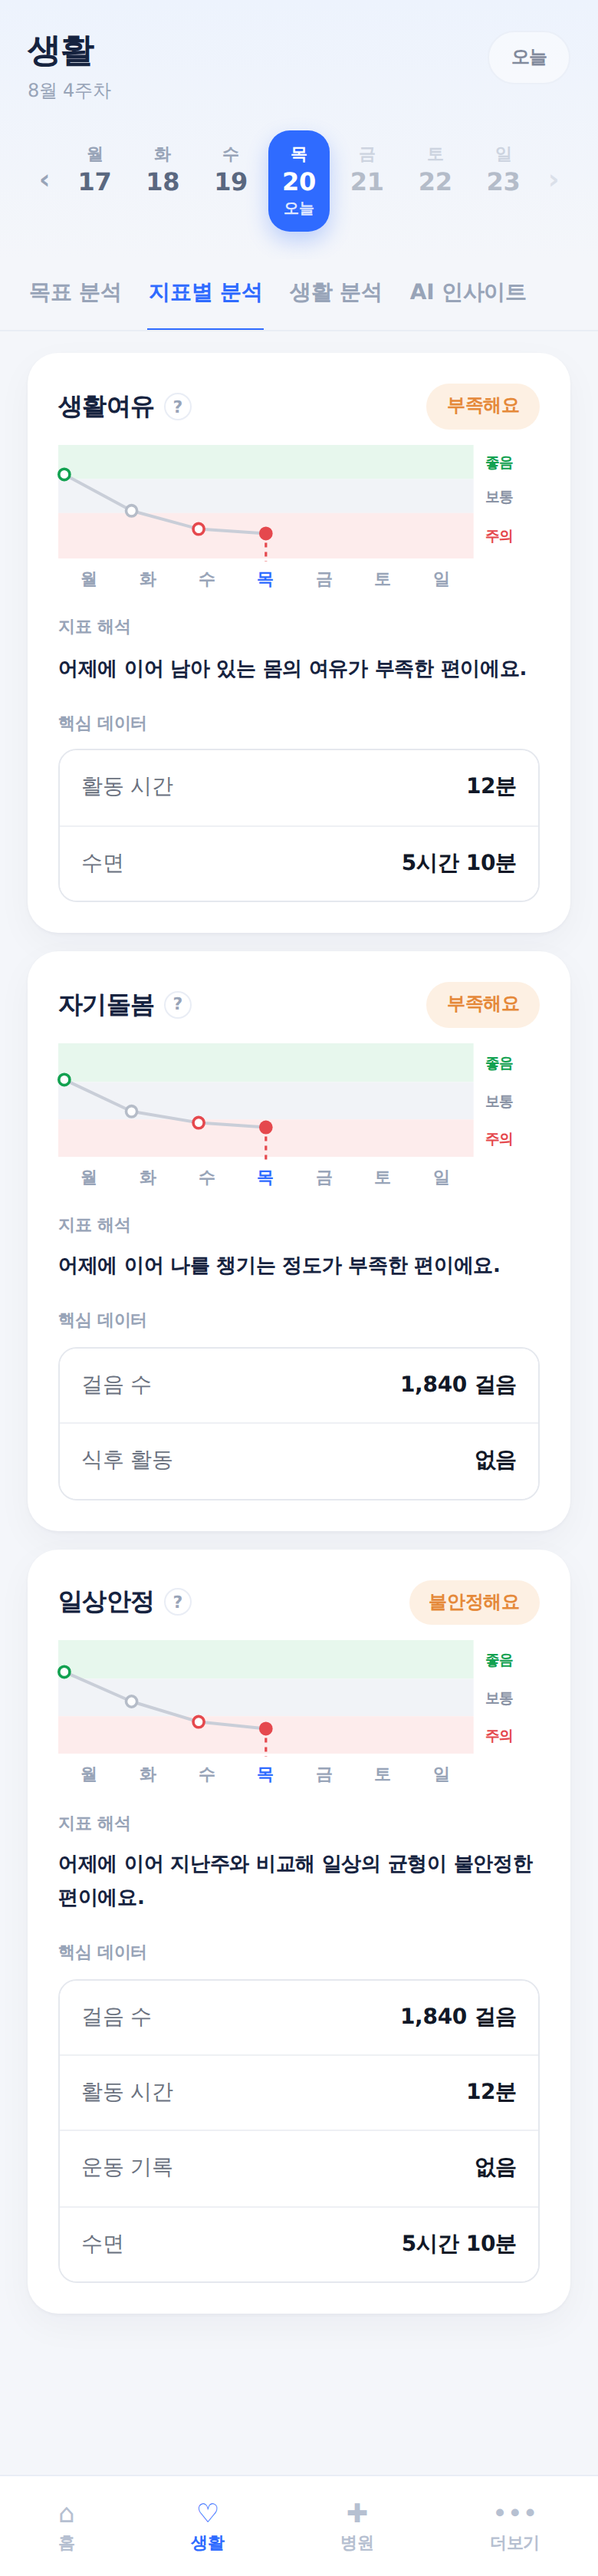
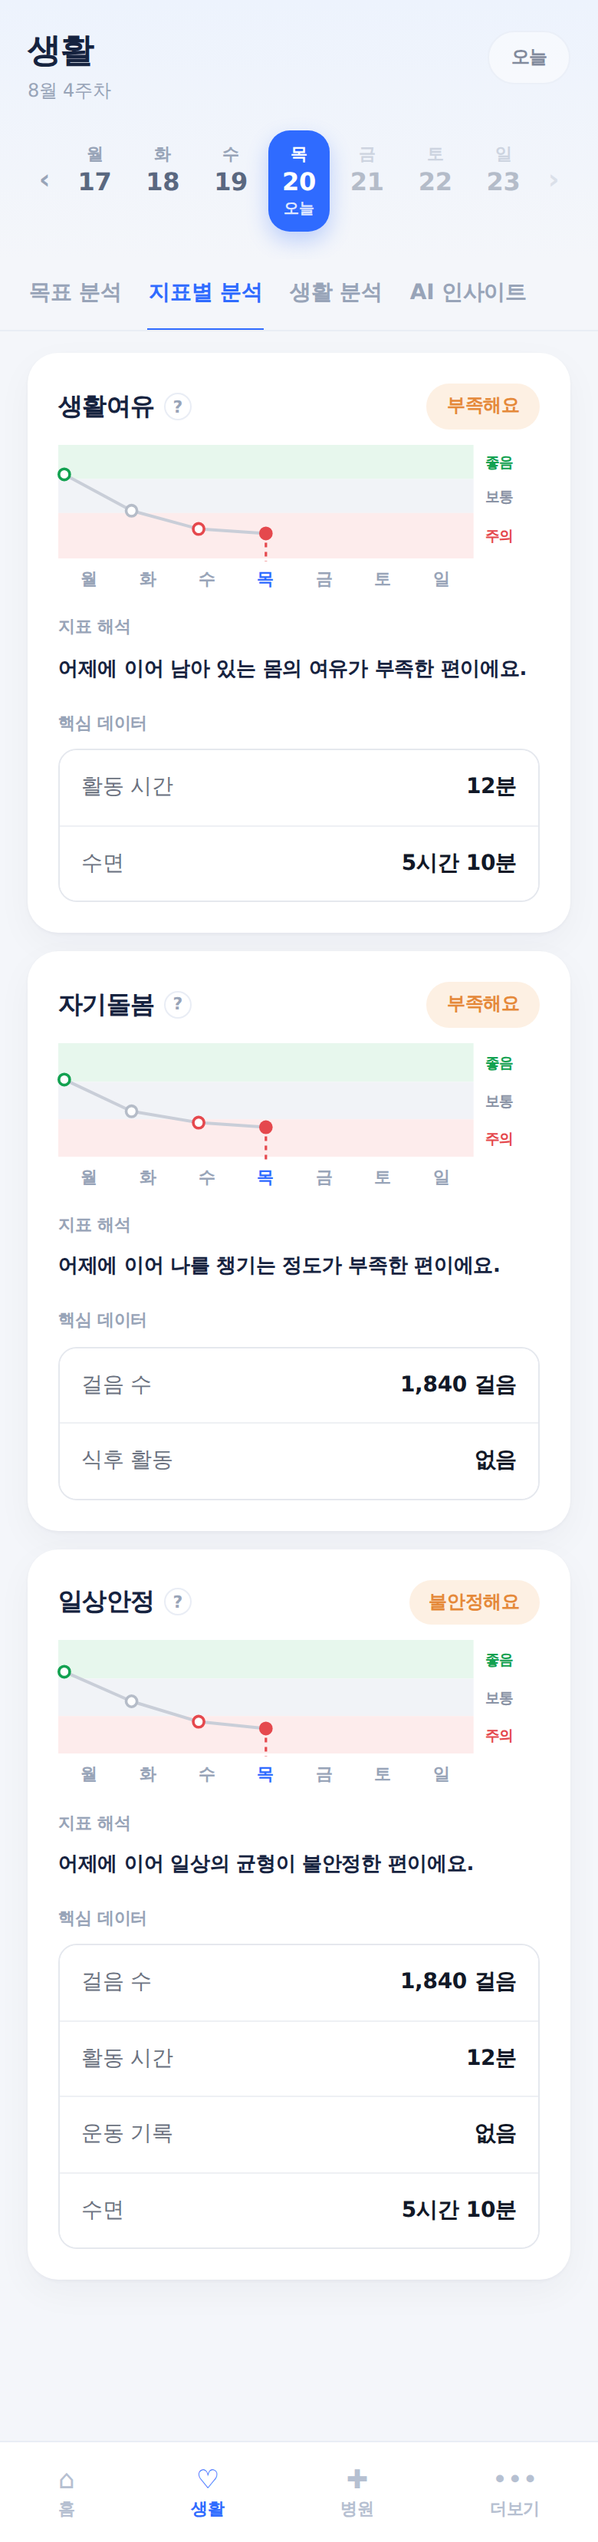
일상안정 상태 문구에서 '지난주와 비교해' 제거, 행동 완료 이유 문구 구분

diff --git a/wip-metric-rules.html b/wip-metric-rules.html
@@ -85,7 +85,7 @@ ul.rules.no li::before{content:'✕';color:var(--low)}
     <tr><th>지표</th><th class="good">좋음</th><th class="mid">보통</th><th class="low">주의</th></tr>
     <tr><td class="k">생활여유</td><td>남아 있는 몸의 여유가 충분한 편이에요</td><td>남아 있는 몸의 여유가 보통이에요</td><td>남아 있는 몸의 여유가 부족한 편이에요</td></tr>
     <tr><td class="k">자기돌봄</td><td>나를 챙기는 정도가 좋은 편이에요</td><td>나를 챙기는 정도가 보통이에요</td><td>나를 챙기는 정도가 부족한 편이에요</td></tr>
-    <tr><td class="k">일상안정</td><td>지난주와 비교해 일상의 균형이 안정적인 편이에요</td><td>지난주와 비교해 일상의 균형이 보통이에요</td><td>지난주와 비교해 일상의 균형이 불안정한 편이에요</td></tr>
+    <tr><td class="k">일상안정</td><td>일상의 균형이 안정적인 편이에요</td><td>일상의 균형이 보통이에요</td><td>일상의 균형이 불안정한 편이에요</td></tr>
   </table>
 </section>
 
@@ -109,7 +109,7 @@ ul.rules.no li::before{content:'✕';color:var(--low)}
     <tr><td class="k">활동 부담</td><td>생활여유</td><td>—</td><td>활동이 많아 부담이 커지면서</td><td>—</td></tr>
     <tr><td class="k">걸음 수</td><td>자기돌봄 · 일상안정</td><td>걸음 수가 늘어나면서</td><td>걸음 수가 줄어들면서</td><td>걸음 수가 적은 날이 이어지면서</td></tr>
     <tr><td class="k">식후 활동</td><td>자기돌봄</td><td>식후 활동이 이어지면서</td><td>식후 활동이 줄어들면서</td><td>식후 활동이 적은 날이 이어지면서</td></tr>
-    <tr><td class="k">행동 완료</td><td>일상안정</td><td>식후 활동을 챙긴 날이 늘면서</td><td>식후 활동을 챙긴 날이 줄면서</td><td>식후 활동을 놓친 날이 이어지면서</td></tr>
+    <tr><td class="k">행동 완료 (7일 식후 활동 완료율)</td><td>일상안정</td><td>이번 주 식후 활동을 챙긴 날이 늘면서</td><td>이번 주 식후 활동을 챙긴 날이 줄면서</td><td>식후 활동을 놓친 날이 이어지면서</td></tr>
     <tr><td class="k">걸음 발생일</td><td>일상안정</td><td>움직인 날이 늘면서</td><td>움직이지 않은 날이 생기면서</td><td>움직이지 않은 날이 이어지면서</td></tr>
     <tr><td class="k">수면 규칙성</td><td>일상안정</td><td>잠드는 시간이 일정해지면서</td><td>잠드는 시간이 불규칙해지면서</td><td>잠드는 시간이 불규칙한 날이 이어지면서</td></tr>
     <tr><td class="k">운동 시간</td><td>일상안정</td><td>운동 시간이 늘어나면서</td><td>운동 시간이 줄어들면서</td><td>운동 공백이 이어지면서</td></tr>
@@ -184,7 +184,7 @@ ul.rules.no li::before{content:'✕';color:var(--low)}
     <div><h4>일상안정</h4>
       <p><span class="tag t-up">올라감</span>걸음 수가 늘어나면서 일상의 균형이 나아졌어요.</p>
             <p><span class="tag t-down">내려감</span>걸음 수가 줄어들면서 일상의 균형이 흐트러졌어요.</p>
-      <p><span class="tag t-same">같음</span>어제에 이어 지난주와 비교해 일상의 균형이 보통이에요.</p>
+      <p><span class="tag t-same">같음</span>어제에 이어 일상의 균형이 보통이에요.</p>
     </div>
   </div>
 </section>
@@ -194,11 +194,11 @@ ul.rules.no li::before{content:'✕';color:var(--low)}
   <h3>① 회복 중인 주 · 데이터</h3>
   <table><tr><th>요일</th><th>수면</th><th>활동 시간</th><th>활동 분산</th><th>걸음 수</th><th>식후 활동</th><th>취침 시각</th></tr><tr><td class="k">월</td><td>6시간 50분</td><td>30분</td><td>4칸 · 40%</td><td>6,900</td><td>걷기 1회</td><td>23:40</td></tr><tr><td class="k">화</td><td>5시간 40분</td><td>18분</td><td>2칸 · 70%</td><td>4,100</td><td>걷기 1회</td><td>00:50</td></tr><tr><td class="k">수</td><td>6시간 30분</td><td>34분</td><td>5칸 · 30%</td><td>7,800</td><td>조깅 1회</td><td>23:20</td></tr><tr><td class="k">목</td><td>7시간 23분</td><td>42분</td><td>6칸 · 25%</td><td>7,340</td><td>걷기 1회</td><td>23:10</td></tr></table>
   <h3>① 회복 중인 주 · 지표 해석</h3>
-  <table><tr><th>요일</th><th>생활여유</th><th>자기돌봄</th><th>일상안정</th></tr><tr><td class="k">월</td><td><span class="tag t-same">보통</span>남아 있는 몸의 여유가 보통이에요.</td><td><span class="tag t-same">보통</span>나를 챙기는 정도가 보통이에요.</td><td><span class="tag t-same">보통</span>지난주와 비교해 일상의 균형이 보통이에요.</td></tr><tr><td class="k">화</td><td><span class="tag t-down">주의</span>수면 시간이 줄어들면서 몸의 여유가 어제보다 감소했어요.</td><td><span class="tag t-down">주의</span>걸음 수가 줄어들면서 나를 챙기는 정도가 어제보다 감소했어요.</td><td><span class="tag t-same">보통</span>어제에 이어 지난주와 비교해 일상의 균형이 보통이에요.</td></tr><tr><td class="k">수</td><td><span class="tag t-same">보통</span>움직임이 하루에 고르게 나뉘면서 몸의 여유가 어제보다 나아졌어요.</td><td><span class="tag t-same">보통</span>걸음 수가 늘어나면서 나를 챙기는 정도가 어제보다 나아졌어요.</td><td><span class="tag t-up">좋음</span>걸음 수가 늘어나면서 일상의 균형이 나아졌어요.</td></tr><tr><td class="k">목</td><td><span class="tag t-up">좋음</span>수면 시간이 늘어나면서 몸의 여유가 어제보다 나아졌어요.</td><td><span class="tag t-same">보통</span>어제에 이어 나를 챙기는 정도가 보통이에요.</td><td><span class="tag t-up">좋음</span>어제에 이어 지난주와 비교해 일상의 균형이 안정적인 편이에요.</td></tr></table>
+  <table><tr><th>요일</th><th>생활여유</th><th>자기돌봄</th><th>일상안정</th></tr><tr><td class="k">월</td><td><span class="tag t-same">보통</span>남아 있는 몸의 여유가 보통이에요.</td><td><span class="tag t-same">보통</span>나를 챙기는 정도가 보통이에요.</td><td><span class="tag t-same">보통</span>일상의 균형이 보통이에요.</td></tr><tr><td class="k">화</td><td><span class="tag t-down">주의</span>수면 시간이 줄어들면서 몸의 여유가 어제보다 감소했어요.</td><td><span class="tag t-down">주의</span>걸음 수가 줄어들면서 나를 챙기는 정도가 어제보다 감소했어요.</td><td><span class="tag t-same">보통</span>어제에 이어 일상의 균형이 보통이에요.</td></tr><tr><td class="k">수</td><td><span class="tag t-same">보통</span>움직임이 하루에 고르게 나뉘면서 몸의 여유가 어제보다 나아졌어요.</td><td><span class="tag t-same">보통</span>걸음 수가 늘어나면서 나를 챙기는 정도가 어제보다 나아졌어요.</td><td><span class="tag t-up">좋음</span>걸음 수가 늘어나면서 일상의 균형이 나아졌어요.</td></tr><tr><td class="k">목</td><td><span class="tag t-up">좋음</span>수면 시간이 늘어나면서 몸의 여유가 어제보다 나아졌어요.</td><td><span class="tag t-same">보통</span>어제에 이어 나를 챙기는 정도가 보통이에요.</td><td><span class="tag t-up">좋음</span>어제에 이어 일상의 균형이 안정적인 편이에요.</td></tr></table>
   <h3>② 컨디션이 떨어진 주 · 데이터</h3>
   <table><tr><th>요일</th><th>수면</th><th>활동 시간</th><th>활동 분산</th><th>걸음 수</th><th>식후 활동</th><th>취침 시각</th></tr><tr><td class="k">월</td><td>7시간 12분</td><td>52분</td><td>5칸 · 30%</td><td>8,120</td><td>걷기 1회</td><td>23:10</td></tr><tr><td class="k">화</td><td>5시간 54분</td><td>26분</td><td>4칸 · 40%</td><td>4,260</td><td>없음</td><td>23:30</td></tr><tr><td class="k">수</td><td>5시간 18분</td><td>15분</td><td>2칸 · 70%</td><td>2,150</td><td>없음</td><td>00:40</td></tr><tr><td class="k">목</td><td>5시간 10분</td><td>12분</td><td>1칸 · 100%</td><td>1,840</td><td>없음</td><td>01:30</td></tr></table>
   <h3>② 컨디션이 떨어진 주 · 지표 해석</h3>
-  <table><tr><th>요일</th><th>생활여유</th><th>자기돌봄</th><th>일상안정</th></tr><tr><td class="k">월</td><td><span class="tag t-up">좋음</span>남아 있는 몸의 여유가 충분한 편이에요.</td><td><span class="tag t-up">좋음</span>나를 챙기는 정도가 좋은 편이에요.</td><td><span class="tag t-up">좋음</span>지난주와 비교해 일상의 균형이 안정적인 편이에요.</td></tr><tr><td class="k">화</td><td><span class="tag t-same">보통</span>수면 시간이 줄어들면서 몸의 여유가 어제보다 감소했어요.</td><td><span class="tag t-same">보통</span>걸음 수가 줄어들면서 나를 챙기는 정도가 어제보다 감소했어요.</td><td><span class="tag t-same">보통</span>걸음 수가 줄어들면서 일상의 균형이 흐트러졌어요.</td></tr><tr><td class="k">수</td><td><span class="tag t-down">주의</span>활동이 한때에 몰리면서 몸의 여유가 어제보다 감소했어요.</td><td><span class="tag t-down">주의</span>걸음 수가 줄어들면서 나를 챙기는 정도가 어제보다 감소했어요.</td><td><span class="tag t-down">주의</span>잠드는 시간이 불규칙해지면서 일상의 균형이 흐트러졌어요.</td></tr><tr><td class="k">목</td><td><span class="tag t-down">주의</span>어제에 이어 남아 있는 몸의 여유가 부족한 편이에요.</td><td><span class="tag t-down">주의</span>어제에 이어 나를 챙기는 정도가 부족한 편이에요.</td><td><span class="tag t-down">주의</span>어제에 이어 지난주와 비교해 일상의 균형이 불안정한 편이에요.</td></tr></table>
+  <table><tr><th>요일</th><th>생활여유</th><th>자기돌봄</th><th>일상안정</th></tr><tr><td class="k">월</td><td><span class="tag t-up">좋음</span>남아 있는 몸의 여유가 충분한 편이에요.</td><td><span class="tag t-up">좋음</span>나를 챙기는 정도가 좋은 편이에요.</td><td><span class="tag t-up">좋음</span>일상의 균형이 안정적인 편이에요.</td></tr><tr><td class="k">화</td><td><span class="tag t-same">보통</span>수면 시간이 줄어들면서 몸의 여유가 어제보다 감소했어요.</td><td><span class="tag t-same">보통</span>걸음 수가 줄어들면서 나를 챙기는 정도가 어제보다 감소했어요.</td><td><span class="tag t-same">보통</span>걸음 수가 줄어들면서 일상의 균형이 흐트러졌어요.</td></tr><tr><td class="k">수</td><td><span class="tag t-down">주의</span>활동이 한때에 몰리면서 몸의 여유가 어제보다 감소했어요.</td><td><span class="tag t-down">주의</span>걸음 수가 줄어들면서 나를 챙기는 정도가 어제보다 감소했어요.</td><td><span class="tag t-down">주의</span>잠드는 시간이 불규칙해지면서 일상의 균형이 흐트러졌어요.</td></tr><tr><td class="k">목</td><td><span class="tag t-down">주의</span>어제에 이어 남아 있는 몸의 여유가 부족한 편이에요.</td><td><span class="tag t-down">주의</span>어제에 이어 나를 챙기는 정도가 부족한 편이에요.</td><td><span class="tag t-down">주의</span>어제에 이어 일상의 균형이 불안정한 편이에요.</td></tr></table>
   <h3>읽는 법</h3>
   <ul class="rules">
     <li>회복 주 수요일: 활동 분산 2칸 → 5칸 → ‘움직임이 하루에 고르게 나뉘면서’</li>
